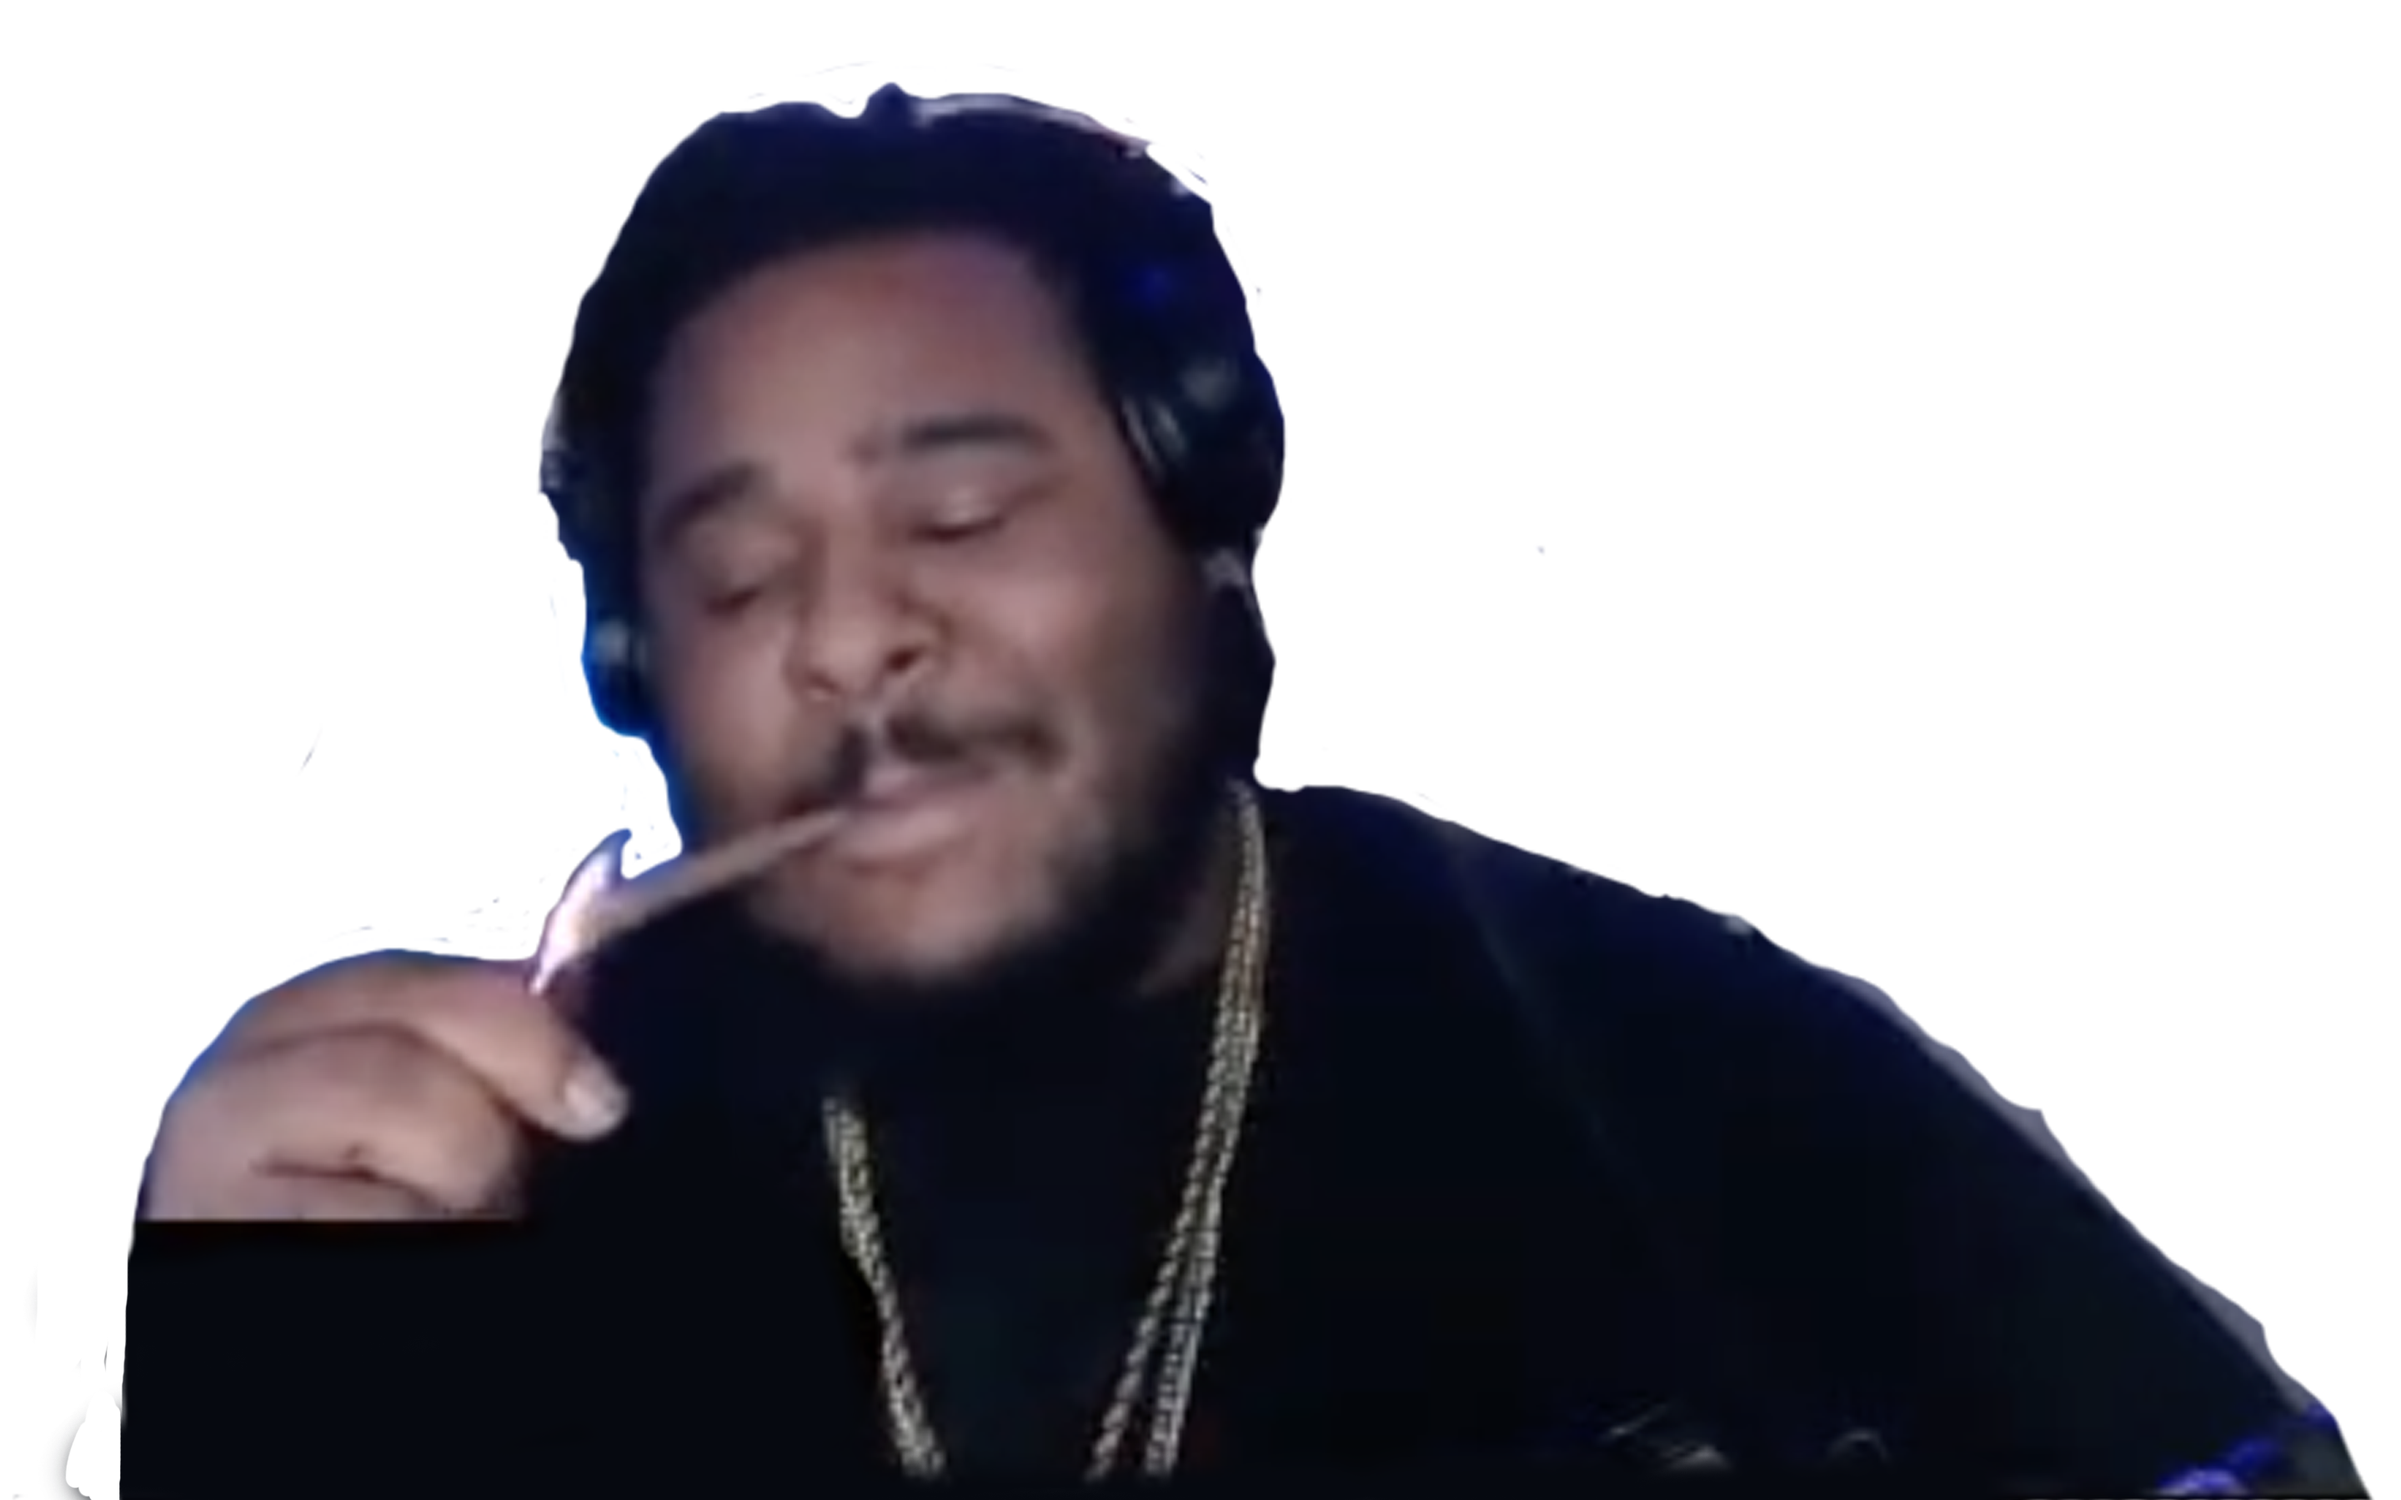
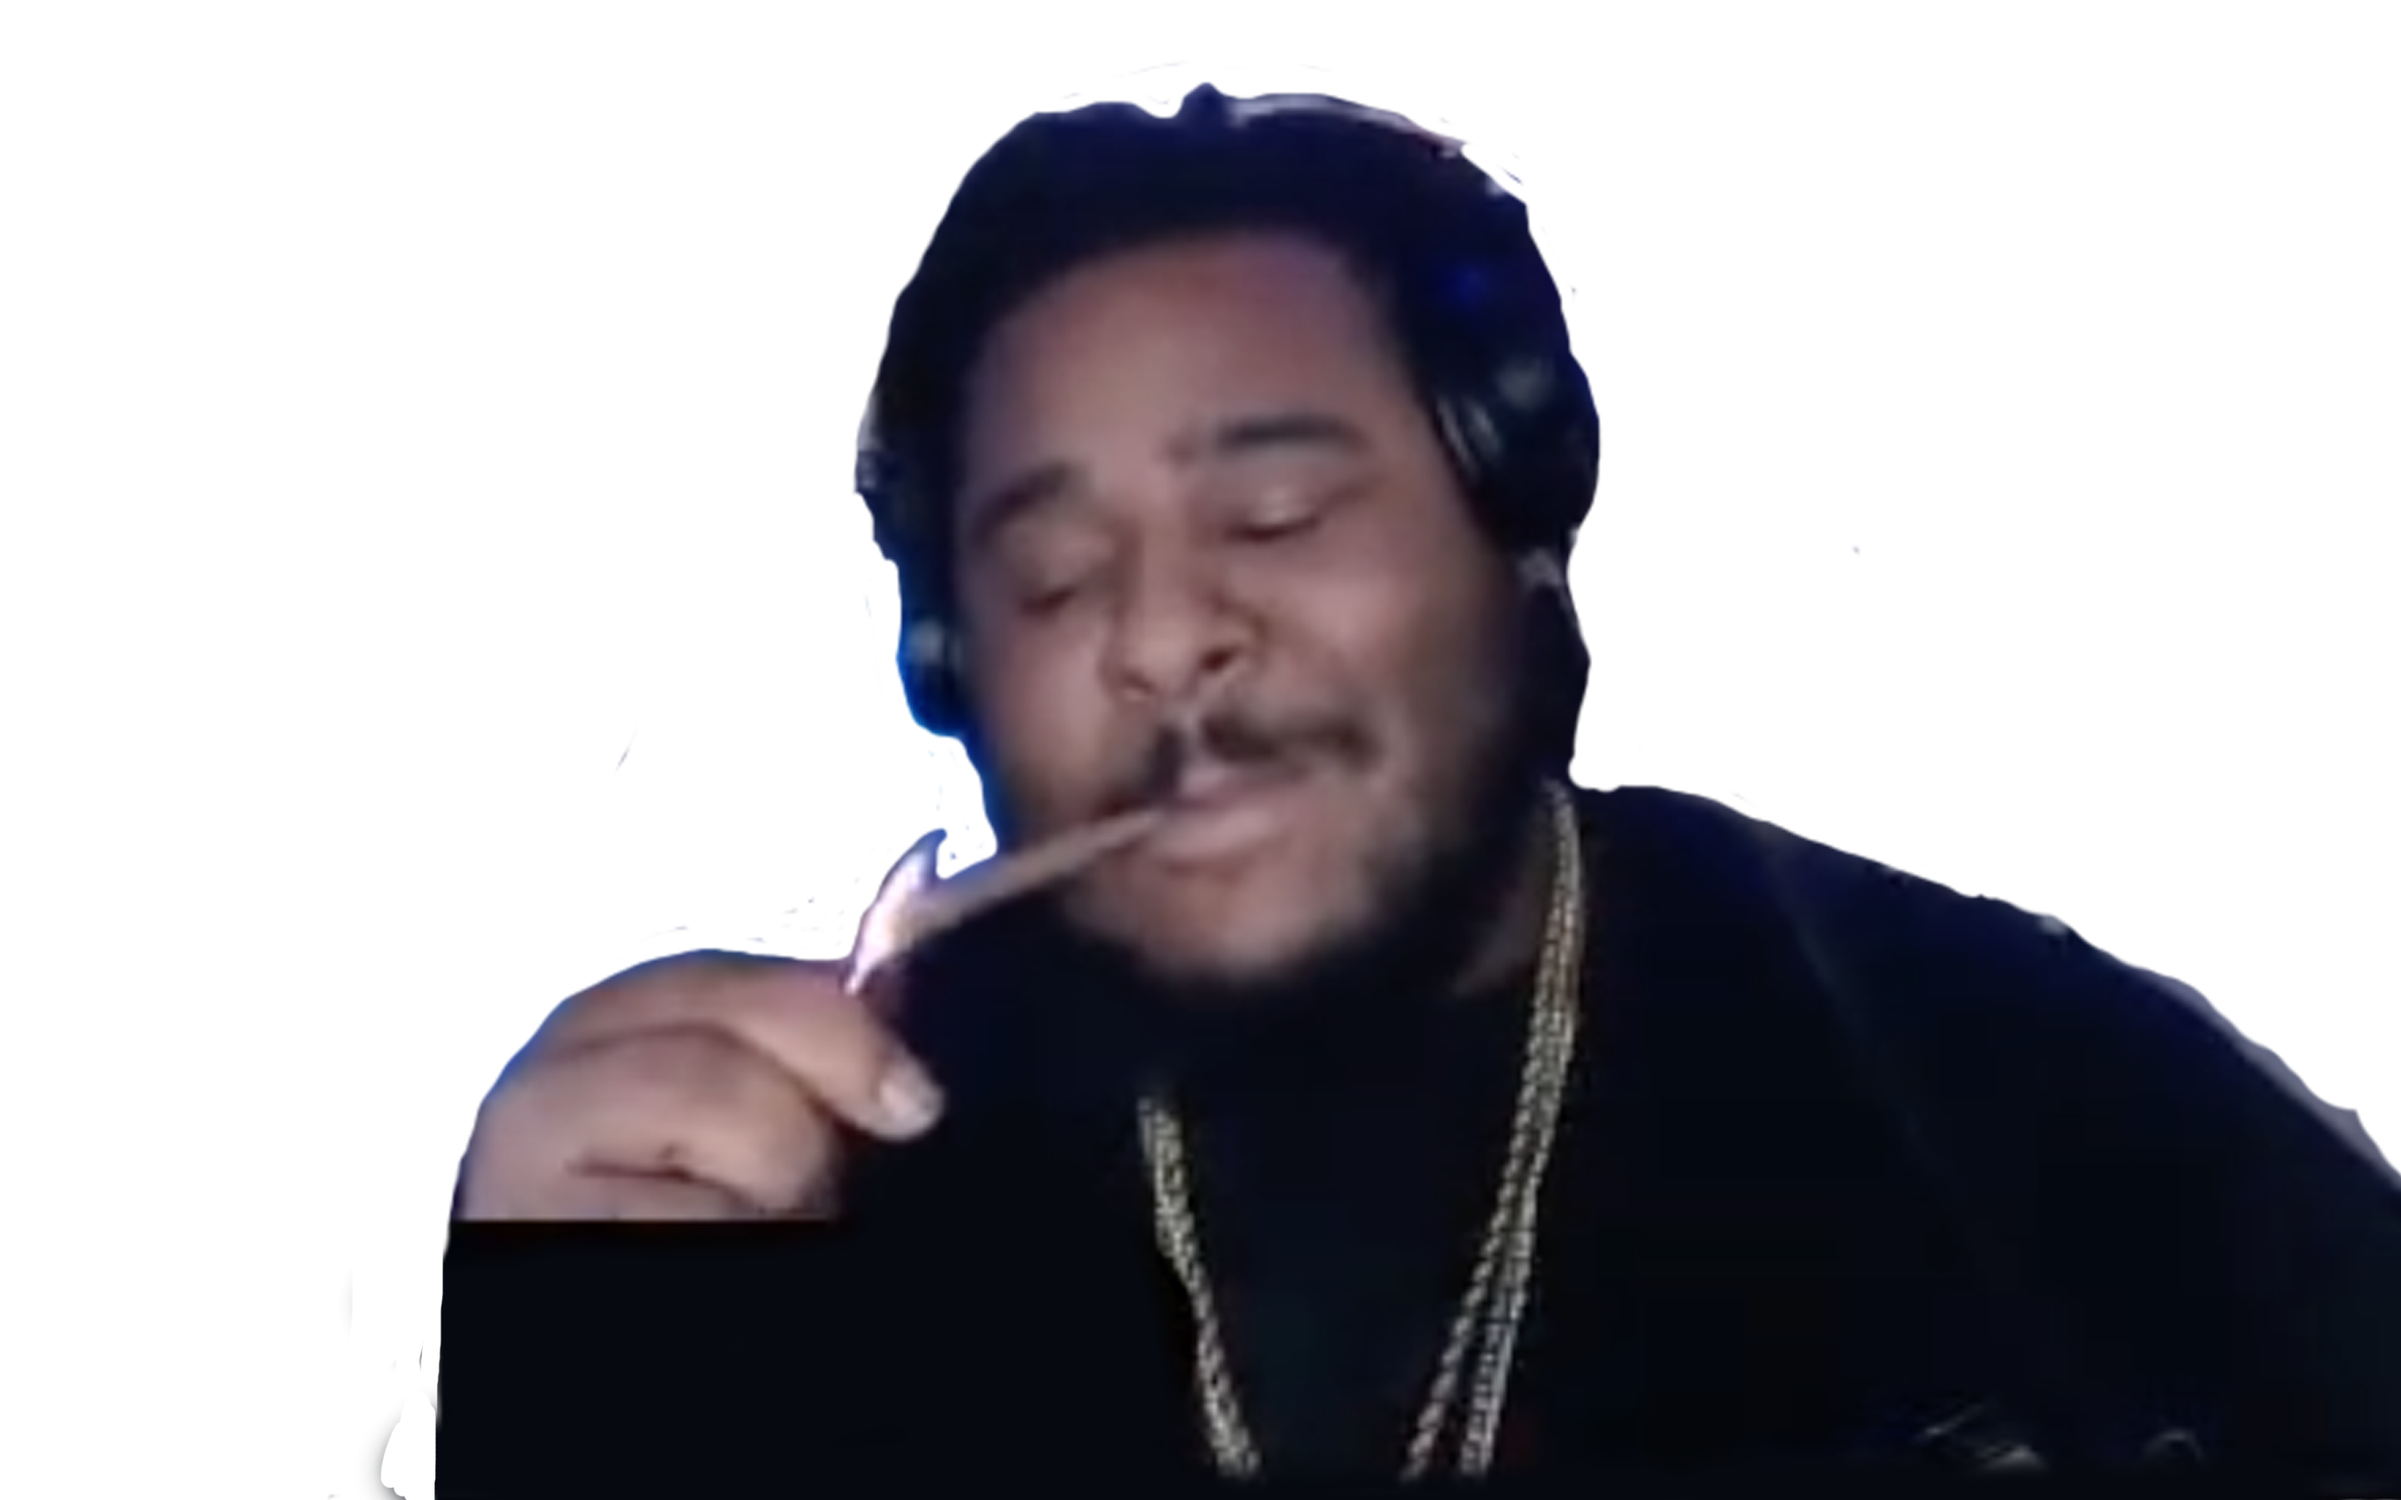
backdrop pic

diff --git a/index.html b/index.html
@@ -23,9 +23,23 @@
       rel="stylesheet"
       href="https://cdnjs.cloudflare.com/ajax/libs/font-awesome/4.7.0/css/font-awesome.min.css"
     />
-  
   </head>
 
+  
+  
+  
+  
+  
+  
+  
+ 
+ 
+ 
+ 
+  <!--==========================
+         Landing Screen Animations
+      ===========================  -->
+ 
   <body class="body">
     <i class="fas fa-bars"></i>
     <div class="begin">
@@ -37,6 +51,21 @@
       </p>
      <button class="btn"><i class="fas fa-forward"> Skip</i></button> 
     </div>
+   
+   
+   
+   
+   
+   
+   
+   
+   
+   
+   
+     <!--==========================
+              Main Page/Top Heading
+      ===========================  -->
+   
     <section class="Bod" id="bod">
       
        <img class="bgimg" src="images/hoodbackground.png" alt="" />
@@ -66,8 +95,111 @@
           ></a></div>
         </div>
         </div>
+
+
+
+
+           <!--==========================
+                    Body Message
+      ===========================  -->
       
-      <div class="snowflakes" aria-hidden="true">
+ 
+<div class="bodytitle">
+ 
+     <div class="test1">
+        <img class="test" src="images/hoodie.png" alt="">
+        </div>
+        <p>Your <br> <span class="goto">GO TO</span> <br> <span class="first">1st source</span>  <br> for the most recent News, <br> but from the <span class="hoodspan">Hood</span> prospective </p>
+        <hr class="break">
+        <div class="latediv"><h3>Latest Stream</h1></div>
+<div class="viddiv"> <iframe width="560" height="315" src="https://www.youtube.com/embed/liMzfGKbmL4" frameborder="0" allow="accelerometer; autoplay; clipboard-write; encrypted-media; gyroscope; picture-in-picture" allowfullscreen></iframe></div>
+       <br>
+        <button class="watchbtn">Watch More <i class="fas fa-forward"> </i></button>
+</div>
+
+      <hr class="break dos">
+      
+      
+      
+      
+      
+      
+      
+      
+      
+      
+      
+      
+      
+      
+      
+      
+      
+      
+      <!--=========================
+                Carousel
+      ========================  -->
+  
+        <div class="carosel"><img src="images/graffi.jpeg" class="grafpic" alt="">
+        <div class="inside">
+          <div class="slide slide1">
+          <img class="caroselImg" src="images/Hoodpic.png" alt="">
+          <h2>The Host</h2>
+          <p>  With Just under 7k Subscribers and counting on Youtube, "The Hood Conservative" is the most upfront and honest Media Outlet speaking from the heart of every Hood in America. Explore my Channel and see why I'm one of the fastest growing Young Stars on Youtube.</p>
+        </div>
+        <div class=" slide slide2">
+         <img class="caroselImg" src="images/uripic.png" alt="">
+          <h2>Co-Host</h2>
+          <p>  Slide 2</p>
+        </div>
+         <div class=" slide slide3">
+         <img class="caroselImg" src="images/drakeColeman.jpg" alt="">
+          <h2>Co-Host</h2>
+          <p>  Slide 3.</p>
+        </div>
+        </div>
+        <div class="buttons"> <i class="fas left fa-angle-double-left fa-layers-top-left"></i><i class="fas right fa-angle-double-right"></i>
+        </div>
+       
+       
+        </div> 
+     
+        
+      
+   
+
+      <!--================
+         Footer
+     ==============  -->
+      
+      <footer class="footer">
+        <div class="icons iconsBot">
+          <div class="dove"><a href="#"><i class="fa fa-facebook"></i></a></div>
+          <div class="dove">  <a href="https://twitter.com/HoodConservati1"
+            ><i class="fab fa-twitter"></i
+          ></a></div>
+          <div class="dove"><a href=""><i class="fab fa-instagram"></i></a></div>
+          <div class="dove"><a href="https://www.youtube.com/user/Deondre11000"
+            ><i class="fab fa-youtube"></i
+          ></a></div>
+</div>
+<div class="bottomMenu">
+          <div class="menutext"><a href="" target="_blank">About</a></div>
+          <div class="menutext"><a href="" target="_blank">Explore</a></div>
+          <div class="menutext"><a href="" target="_blank">Contact</a></div>
+          <div class="menutext"><a href="" target="_blank">Merch</a></div>
+        </div>
+        <div id="bar">
+          <div class="bar">
+            <span class="hc" id="h">H</span> <span class="hc" id="c">C</span>
+          </div>
+        </div>
+      </footer>
+
+  
+      <script src="app.js"></script>
+    </section>
+         <div class="snowflakes" aria-hidden="true">
         <div class="snowflake"></div>
         <div class="snowflake"></div>
         <div class="snowflake"></div>
@@ -118,87 +250,5 @@
         <div class="snow1"></div>
         <div class="snow2"></div>
       </div>
-<div class="bodytitle">
-        <p>Your <br> <span class="goto">GO TO</span> <br> <span class="first">1st source</span>  <br> for the most recent News, <br> but from the <span class="hoodspan">Hood</span> prospective </p>
-        <hr class="break">
-        <h3>Latest Stream</h1>
-<div class="viddiv"> <iframe width="560" height="315" src="https://www.youtube.com/embed/liMzfGKbmL4" frameborder="0" allow="accelerometer; autoplay; clipboard-write; encrypted-media; gyroscope; picture-in-picture" allowfullscreen></iframe></div>
-       <br>
-        <button class="watchbtn">Watch More <i class="fas fa-forward"> </i></button>
-</div>
-      <hr class="break dos">
-      <!--================
-         Carousel
-      ==============  -->
-  
-        <div class="carosel"><img src="images/graffi.jpeg" class="grafpic" alt="">
-        <div class="inside">
-          <div class="slide slide1">
-          <img class="caroselImg" src="images/Hoodpic.png" alt="">
-          <h2>The Host</h2>
-          <p>  With Just under 7k Subscribers and counting on Youtube, "The Hood Conservative" is the most upfront and honest Media Outlet speaking from the heart of every Hood in America. Explore my Channel and see why I'm one of the fastest growing Young Stars on Youtube.</p>
-        </div>
-        <div class=" slide slide2">
-         <img class="caroselImg" src="images/uripic.png" alt="">
-          <h2>Co-Host</h2>
-          <p>  Slide 2</p>
-        </div>
-         <div class=" slide slide3">
-         <img class="caroselImg" src="images/drakeColeman.jpg" alt="">
-          <h2>Co-Host</h2>
-          <p>  Slide 3.</p>
-        </div>
-        </div>
-        <div class="buttons"> <i class="fas left fa-angle-double-left fa-layers-top-left"></i><i class="fas right fa-angle-double-right"></i>
-        </div>
-       
-       
-        </div> 
-        <div class="test1">
-        <img class="test" src="images/hoodie.png" alt="">
-        </div>
-        
-      
-   
-
-      <!--================
-         Footer
-     ==============  -->
-      
-      <footer class="footer">
-       
-        <div class="icons iconsBot">
-          <div class="dove"><a href="#"><i class="fa fa-facebook"></i></a></div>
-          <div class="dove">  <a href="https://twitter.com/HoodConservati1"
-            ><i class="fab fa-twitter"></i
-          ></a></div>
-          <div class="dove"><a href=""><i class="fab fa-instagram"></i></a></div>
-          <div class="dove"><a href="https://www.youtube.com/user/Deondre11000"
-            ><i class="fab fa-youtube"></i
-          ></a></div>
-
-        
-
-        
-
-          
-        </div>
-
-        <div class="bottomMenu">
-          <div class="menutext"><a href="" target="_blank">About</a></div>
-          <div class="menutext"><a href="" target="_blank">Explore</a></div>
-          <div class="menutext"><a href="" target="_blank">Contact</a></div>
-          <div class="menutext"><a href="" target="_blank">Merch</a></div>
-        </div>
-        <div id="bar">
-          <div class="bar">
-            <span class="hc" id="h">H</span> <span class="hc" id="c">C</span>
-          </div>
-        </div>
-      </footer>
-
-  
-      <script src="app.js"></script>
-    </section>
   </body>
 </html>

diff --git a/CSS/webfontkit-20201205-215201/styles.css b/CSS/webfontkit-20201205-215201/styles.css
@@ -246,15 +246,27 @@ header {
 /*=======================
                 Body
         =======================*/
+.test {
+  width: 150%;
+}
+.test1 {
+  position: absolute;
+  background-color: grey;
+  width: 100%;
+  overflow: hidden;
+  filter: brightness(10%);
+  z-index: -1;
+}
 
 .bodytitle,
 .bodytitle span {
   text-align: center;
-  margin-top: 10%;
+
   width: 100%;
   font-size: 6rem;
   font-family: "a_attack_graffitiregular";
   color: yellow;
+  overflow: hidden;
 }
 
 .first {
@@ -269,7 +281,7 @@ header {
 .bodytitle p {
   color: white;
   text-align: center;
-  width: 50%;
+  margin-top: 10%;
   font-family: "Josefin Sans", sans-serif;
   font-size: 5rem;
   line-height: 10rem;
@@ -279,7 +291,7 @@ header {
 .break {
   border-top: solid yellow;
   width: 30%;
-  margin: 5rem auto 10rem;
+  margin: 3rem auto 5rem;
 }
 .dos {
   width: 70%;
@@ -287,6 +299,10 @@ header {
 /*=======================
        Video
   =======================*/
+.latediv {
+  background-color: rgba(0, 0, 0, 0.7);
+  padding: 15px;
+}
 .bodytitle h3 {
   background: rgb(131, 58, 180);
   background: linear-gradient(
@@ -298,7 +314,7 @@ header {
   -webkit-background-clip: text;
   -webkit-text-fill-color: transparent;
   font-size: 8rem;
-  margin: 5rem auto;
+  margin: 5rem auto 1rem;
 }
 
 .watchbtn {
@@ -414,15 +430,6 @@ header {
 /*=====================
       Carosel Images
 =====================*/
-.test {
-  width: 150%;
-}
-.test1 {
-  background-color: grey;
-  width: 100%;
-  overflow: hidden;
-  filter: brightness(5%);
-}
 
 /*============================
               Bottom/Footer
